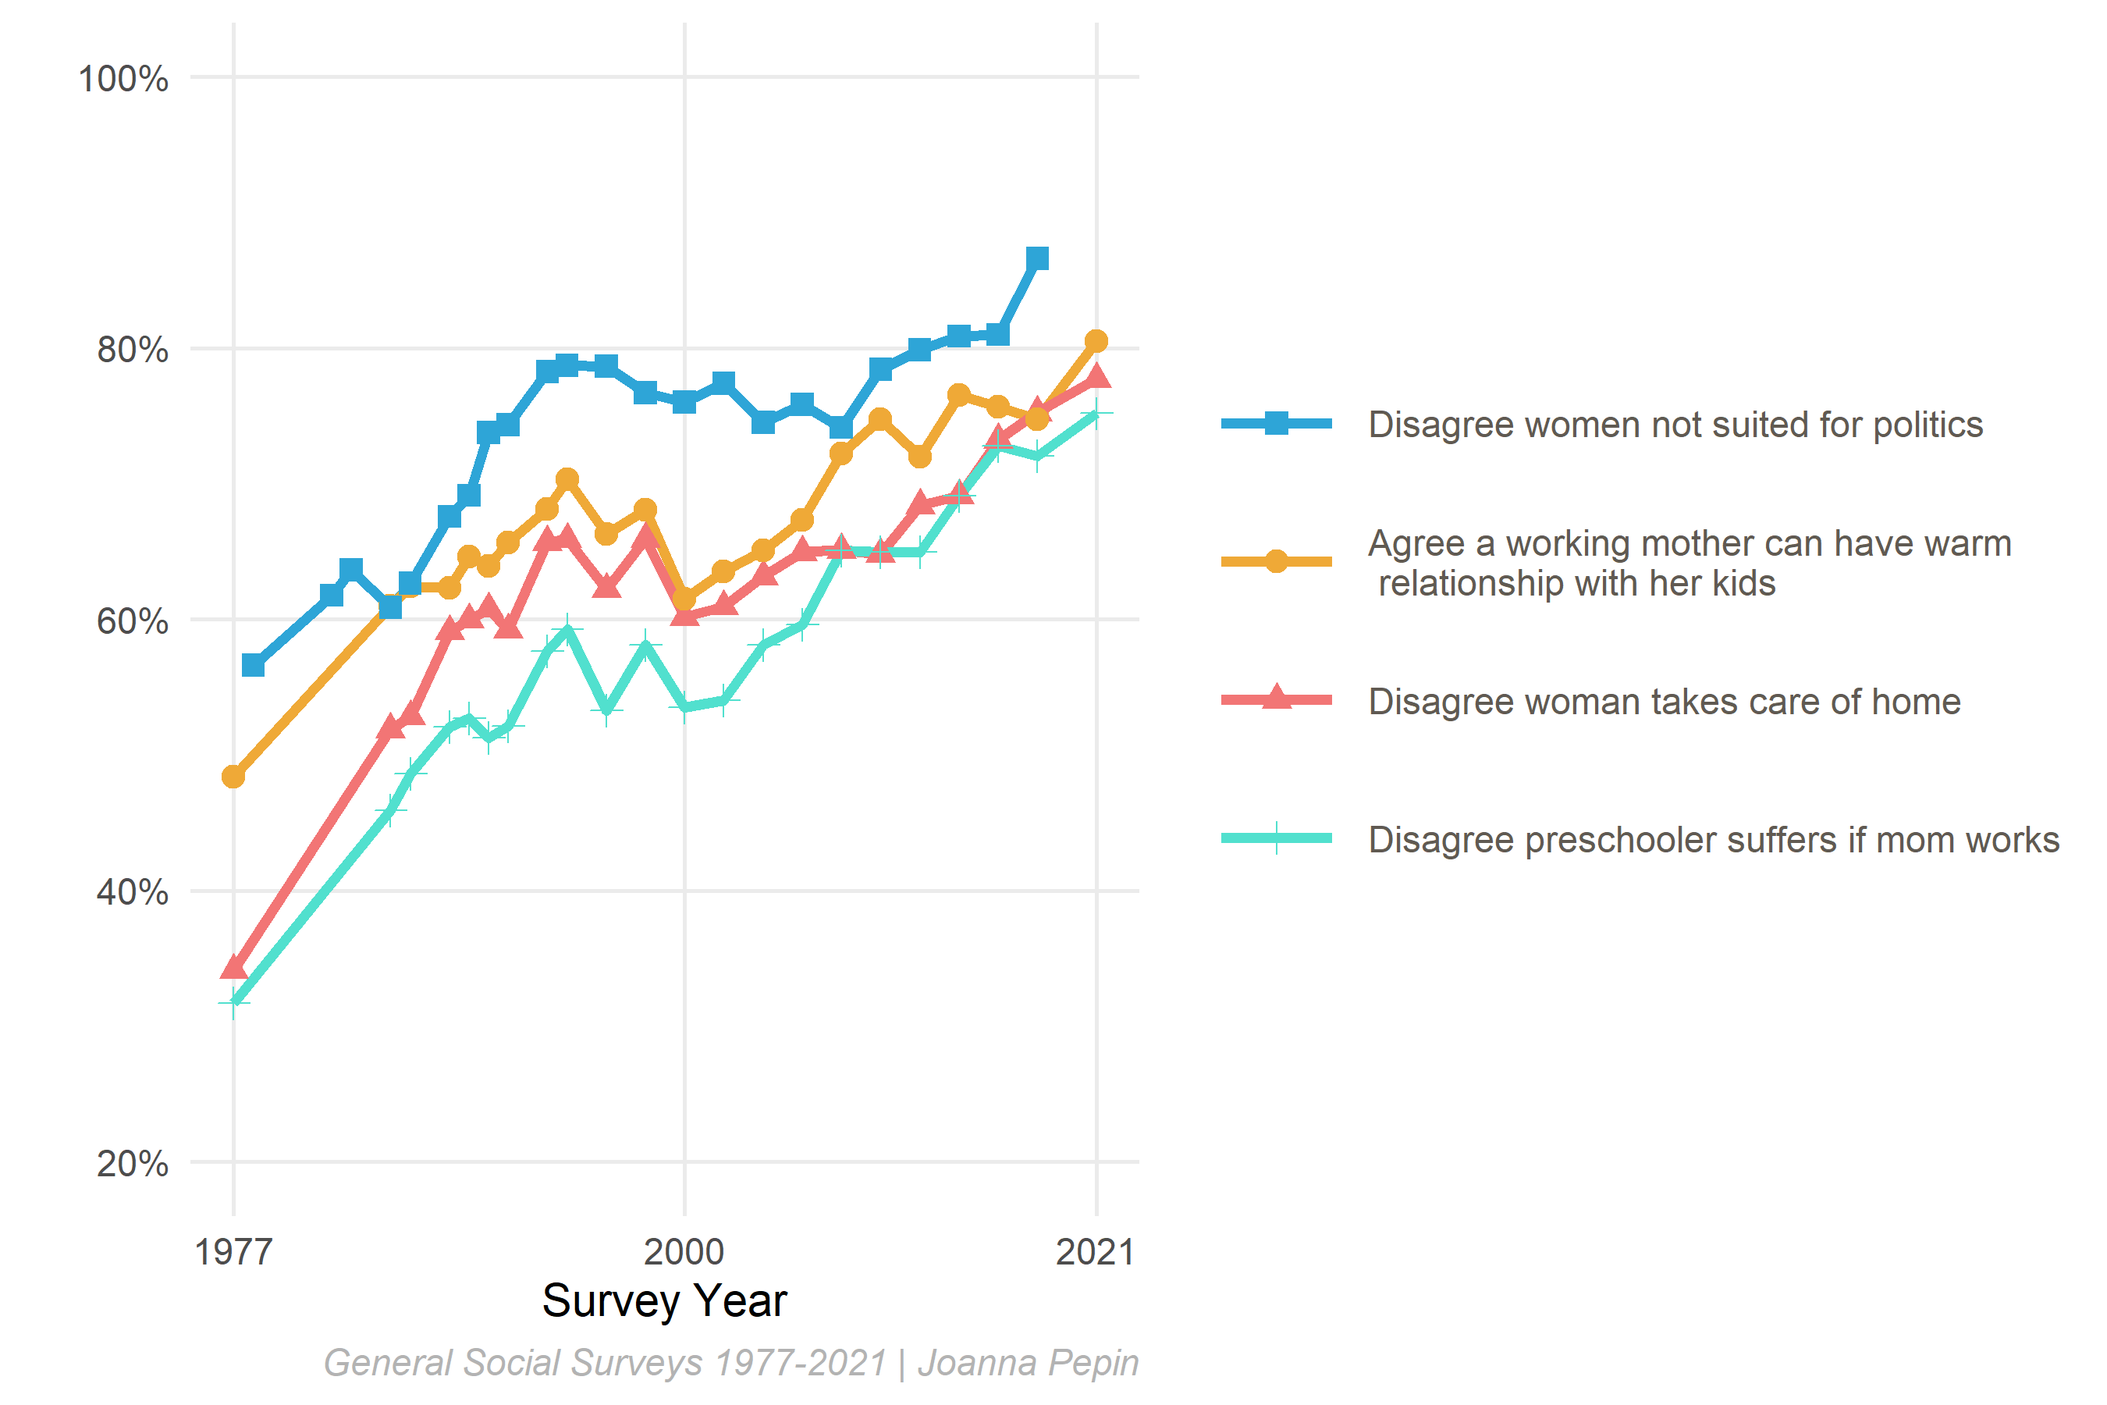
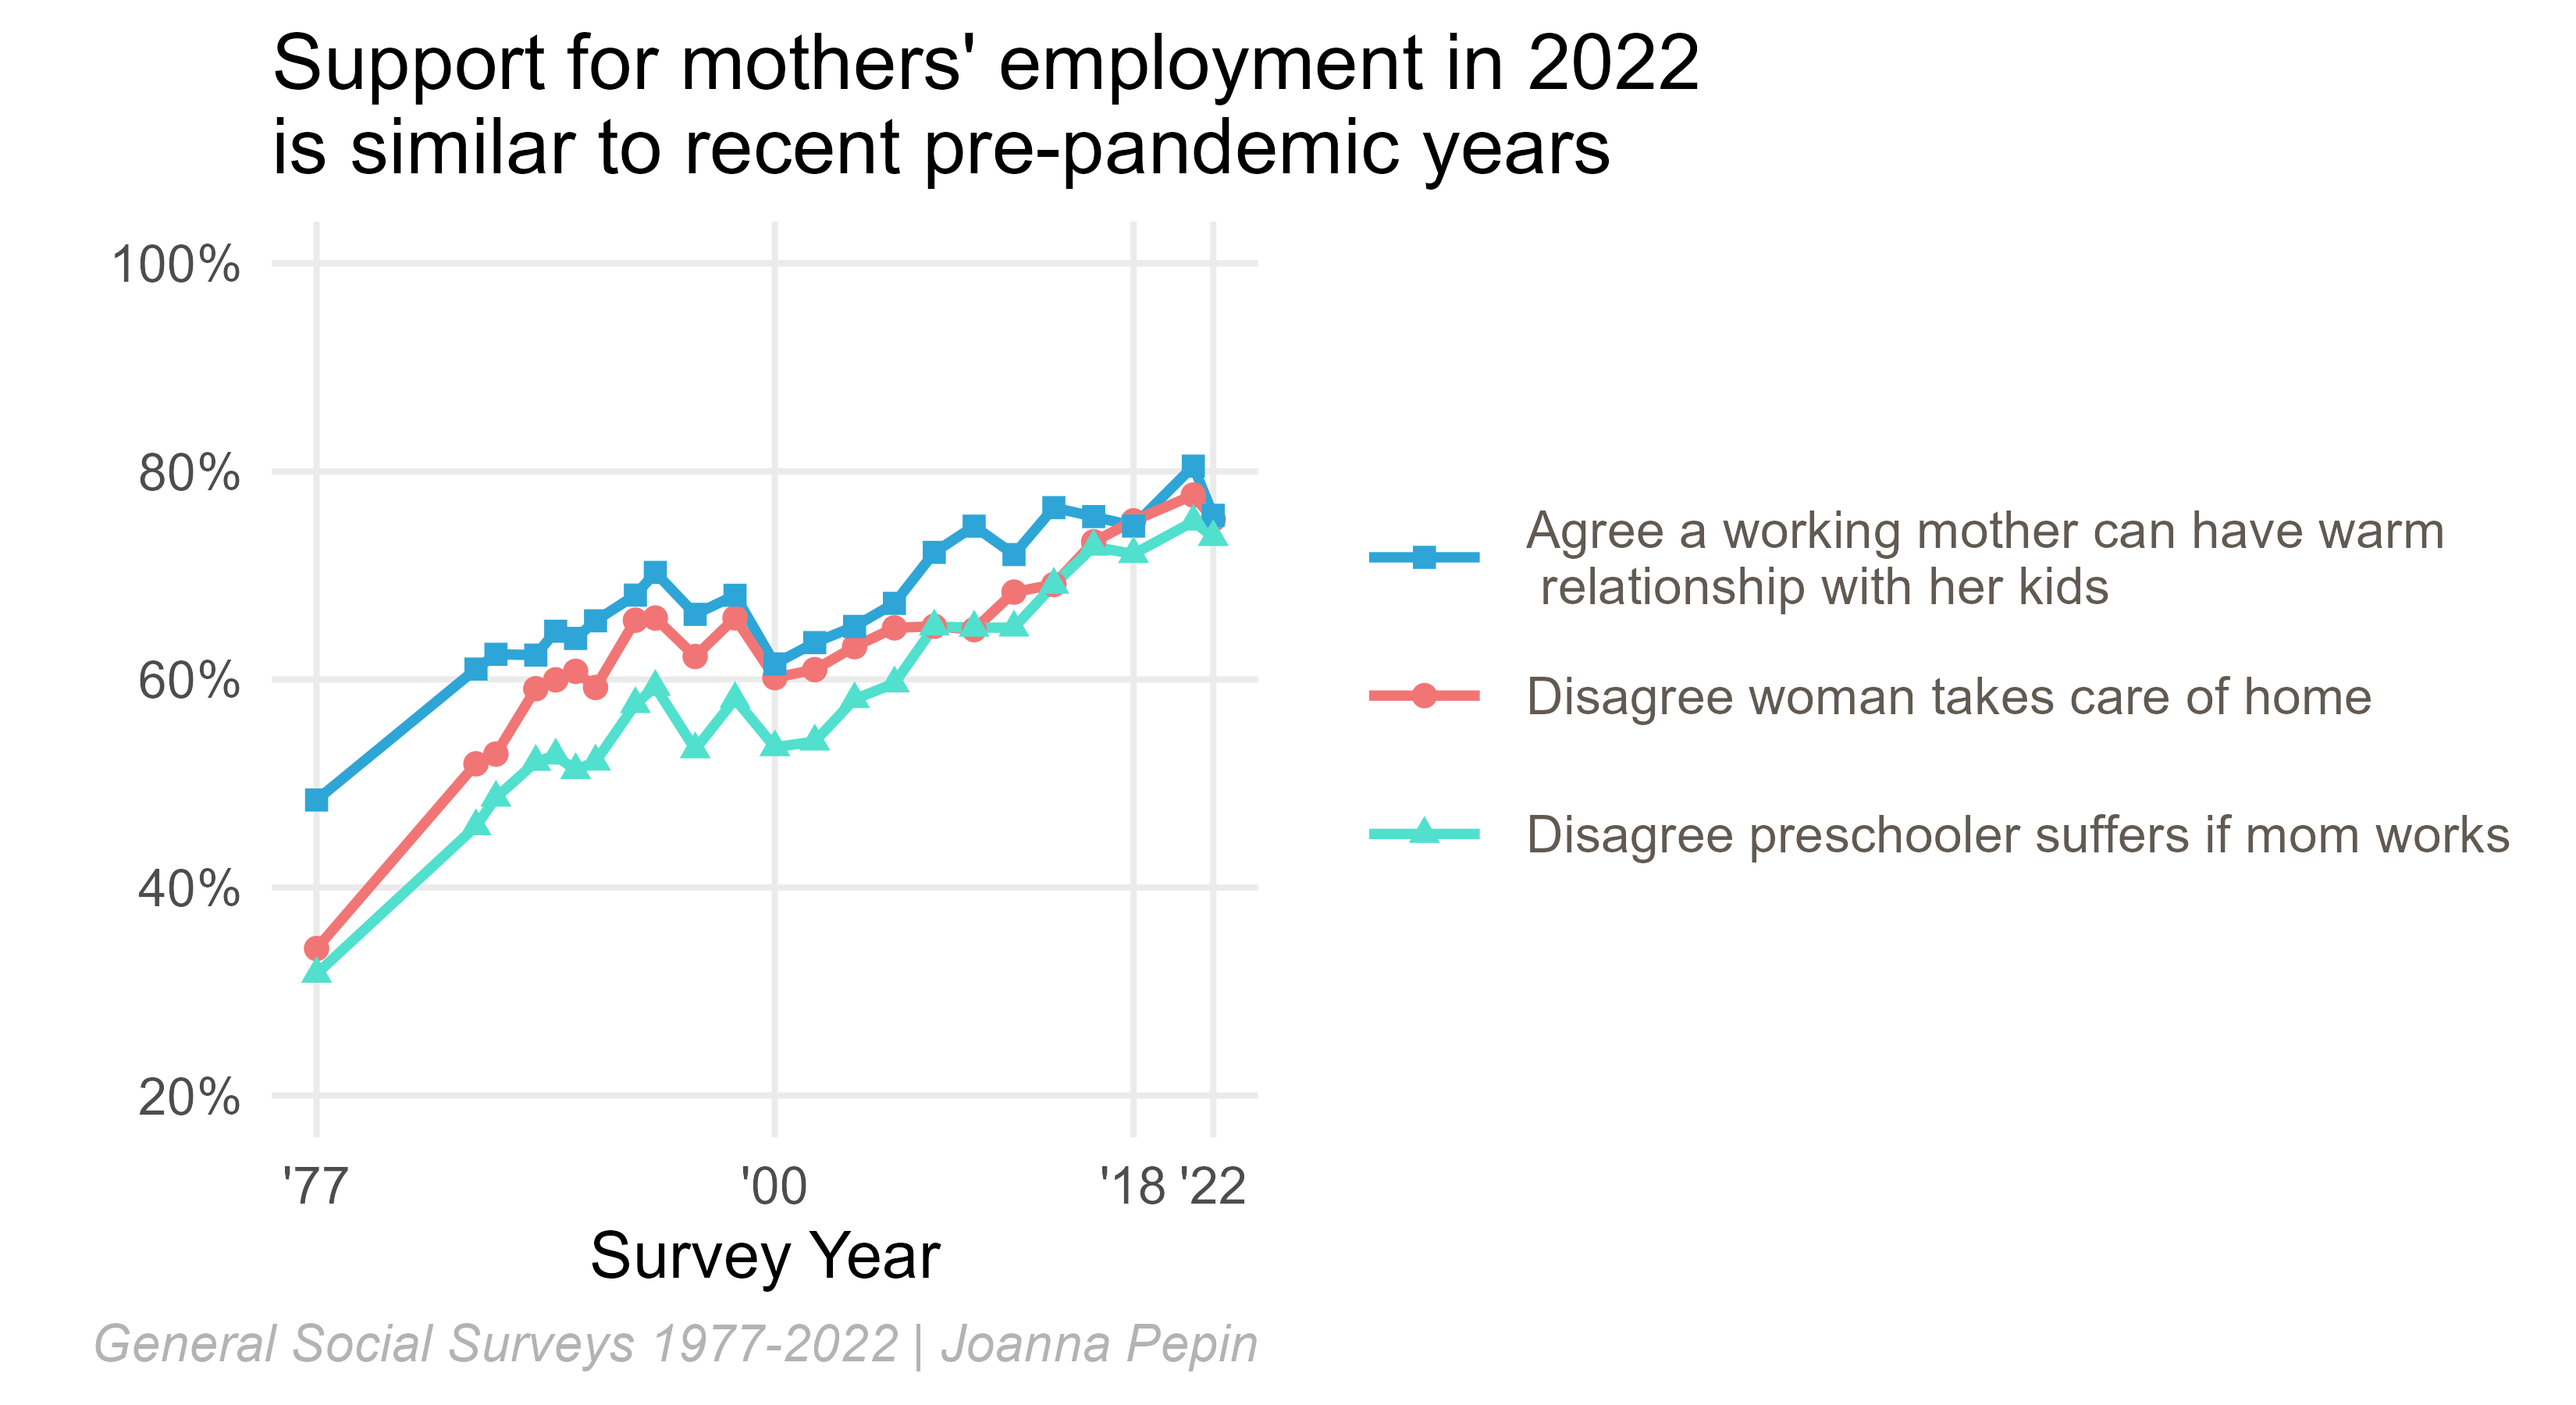
updating with 2022 GSS data

diff --git a/index-1.html b/index-1.html
@@ -1,0 +1,8 @@
+<html><head><meta http-equiv="Content-Type" content="text/html; charset=utf-8"/><title>Unknown </title></head><body>
+<h1 id="gss_gender-attitudes">GSS_Gender-Attitudes</h1>
+<p>Joanna R. Pepin</p>
+<h2 id="data">DATA</h2>
+<p><a href="http://gss.norc.org/get-the-data/stata">GSS 1972-2021 Cross-Sectional Cumulative Data</a> (Release 1a, Nov. 8, 2021)</p>
+<h2 id="analysis">Analysis</h2>
+<p>This script graphs trends in attitudes about working mothers, commonly analyzed using the General Social Survey data.</p>
+</body></html>
